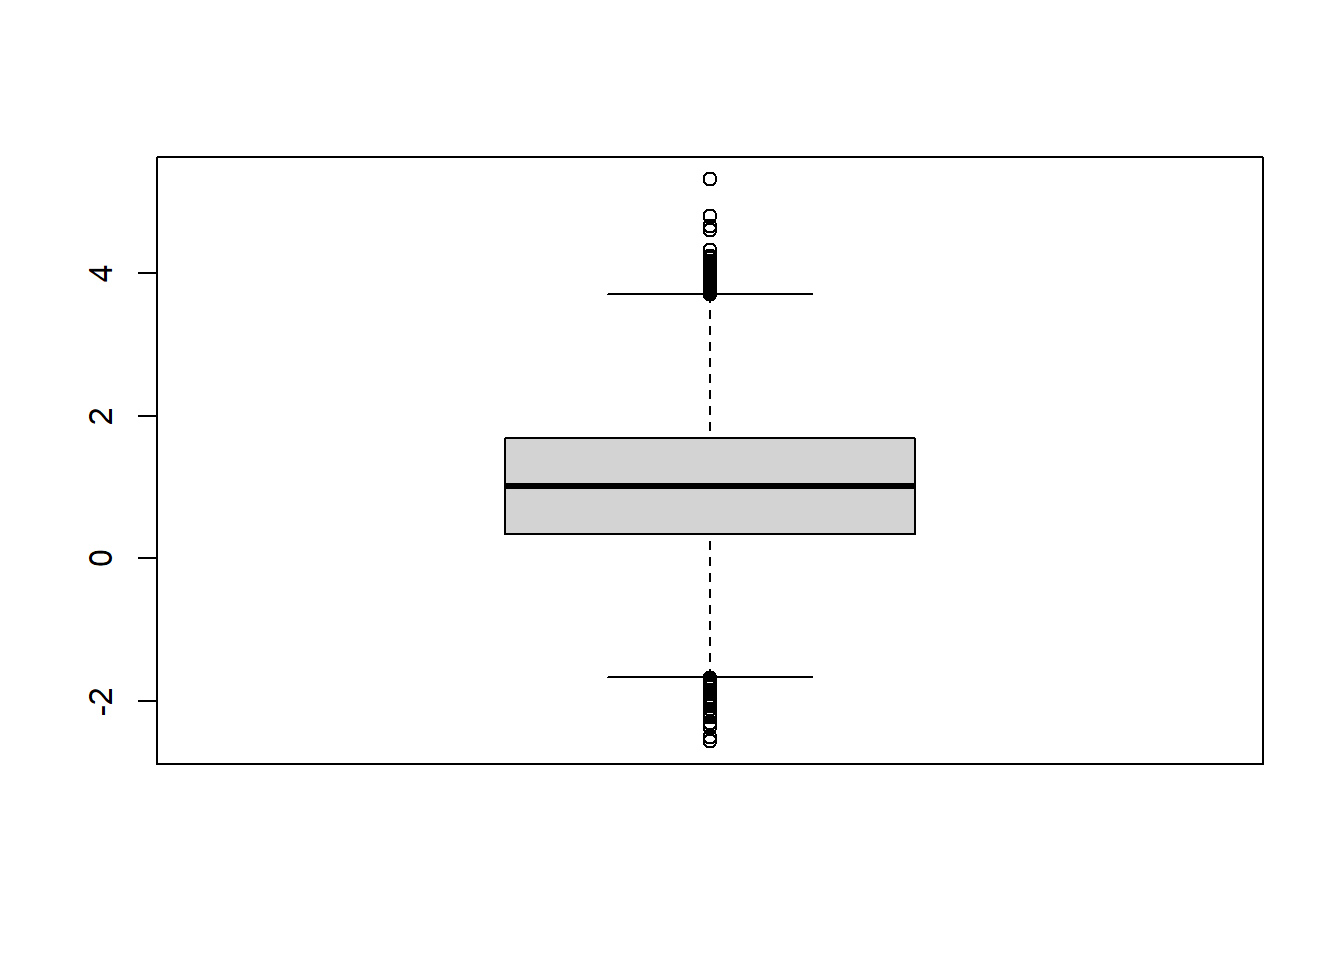
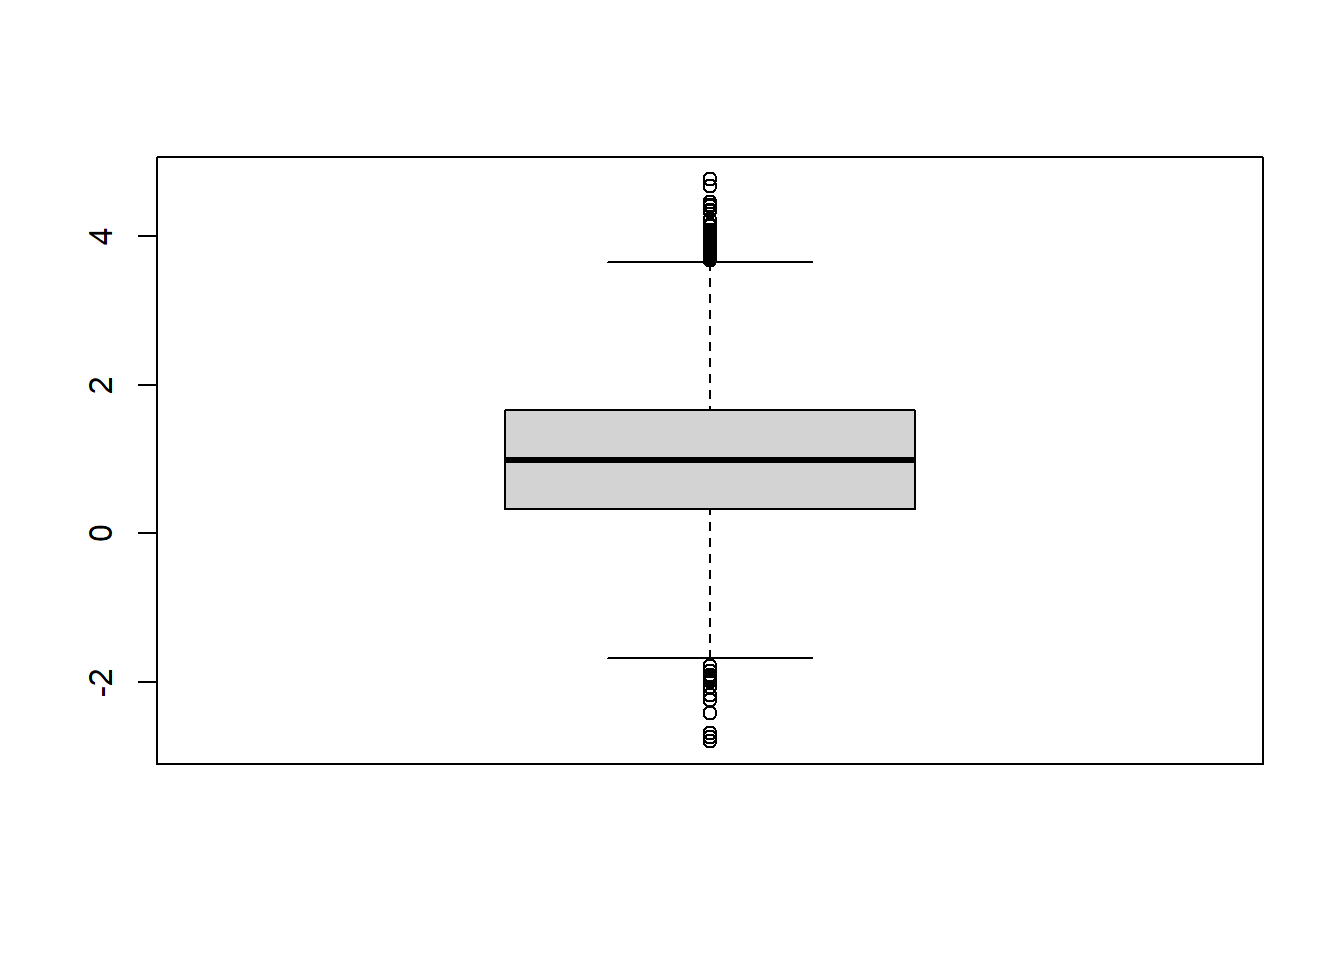
commit post comandos basicos float toc

diff --git a/content/post/2021-02-17-comandos-basicos-r/index.html b/content/post/2021-02-17-comandos-basicos-r/index.html
@@ -1,16 +1,26 @@
 ---
-title: Introdução ao R e comandos básicos
+
+title: comandos basicos r
 author: Lucas S.B. Jordão
 date: '2021-02-17'
-slug: comando-basicos-r
+slug: []
 output: 
     blogdown::html_page:
       toc: true
+      toc_float: true
 categories: []
 tags: []
+subtitle: ''
+summary: ''
+authors: []
+lastmod: '2021-02-17T12:04:30-03:00'
+featured: no
 image:
   caption: ''
   focal_point: ''
+  preview_only: no
+projects: []
+
 ---
 
 <script src="index_files/header-attrs-2.6/header-attrs.js"></script>
@@ -257,7 +267,7 @@ Auckland, ajudaram Ross Ihaka a desenvolver a versão para Macintosh.</p>
 ## when using it for data analysis. See also &#39;citation(&quot;pkgname&quot;)&#39; for
 ## citing R packages.</code></pre>
 <pre class="r"><code>Sys.time()                  # obtém data e hora exata do sistema</code></pre>
-<pre><code>## [1] &quot;2021-02-17 12:10:16 -03&quot;</code></pre>
+<pre><code>## [1] &quot;2021-02-17 12:17:48 -03&quot;</code></pre>
 </div>
 <div id="operadores-simples-e-funções-matemáticas" class="section level2">
 <h2>Operadores simples e funções matemáticas</h2>
@@ -617,7 +627,7 @@ x &lt;- 1
 if(x == 1) {
   Sys.time()
 }               #mostra a data e hora exata do sistema, já que &#39;x&#39; é 1.</code></pre>
-<pre><code>## [1] &quot;2021-02-17 12:10:18 -03&quot;</code></pre>
+<pre><code>## [1] &quot;2021-02-17 12:17:51 -03&quot;</code></pre>
 <pre class="r"><code>if(x &lt; 0) {
   sinal &lt;- &quot;negativo&quot;
 } else if(x == 0) {
@@ -667,43 +677,43 @@ soma</code></pre>
 <div id="gerando-números-aleatórios-e-amostragem" class="section level1">
 <h1>Gerando números aleatórios e amostragem</h1>
 <pre class="r"><code>runif(100)        # Gera números aleatórios entre 0 e 1 com distribuição uniforme</code></pre>
-<pre><code>##   [1] 0.63600378 0.38215124 0.12818284 0.25177949 0.93724778 0.94716366
-##   [7] 0.79751432 0.79935023 0.95190966 0.08677215 0.12372615 0.59477042
-##  [13] 0.52206621 0.39373517 0.33022238 0.92071094 0.05221822 0.31958587
-##  [19] 0.46067311 0.92708054 0.42365516 0.79093559 0.89020530 0.90516140
-##  [25] 0.22376951 0.15727100 0.89925091 0.83828237 0.28057454 0.67376961
-##  [31] 0.39973496 0.47793566 0.69967833 0.97239110 0.26605240 0.02434542
-##  [37] 0.62310146 0.13274853 0.35281232 0.21263423 0.58901648 0.76795097
-##  [43] 0.79725882 0.08448119 0.51925088 0.97845564 0.91646530 0.95729448
-##  [49] 0.45390163 0.76056649 0.08849256 0.59300818 0.42191673 0.75968233
-##  [55] 0.91551319 0.14203244 0.68619694 0.57318367 0.75741115 0.96459629
-##  [61] 0.03906830 0.57425500 0.51720974 0.13646833 0.41056263 0.96534646
-##  [67] 0.69134154 0.62573447 0.75252701 0.27377807 0.36420877 0.48085268
-##  [73] 0.79980838 0.11030883 0.36988389 0.82989662 0.80939115 0.17754567
-##  [79] 0.17936197 0.96459833 0.51762335 0.81032583 0.40022239 0.14375010
-##  [85] 0.04085913 0.22217609 0.26139900 0.46606899 0.89581386 0.81490379
-##  [91] 0.62644862 0.99223161 0.37653322 0.32936886 0.99887032 0.43422853
-##  [97] 0.01373888 0.83808699 0.23285106 0.79630216</code></pre>
+<pre><code>##   [1] 0.114464485 0.166222491 0.771593774 0.628486642 0.479739084 0.270543199
+##   [7] 0.448618812 0.617354669 0.097875605 0.222448662 0.903815951 0.241593179
+##  [13] 0.889870373 0.342623003 0.913647290 0.936573706 0.244559849 0.298623869
+##  [19] 0.669182980 0.663050062 0.222848886 0.619110996 0.798852796 0.487607297
+##  [25] 0.504973599 0.925194189 0.716578204 0.429717623 0.041916208 0.668249903
+##  [31] 0.568422795 0.334327069 0.089024592 0.145022920 0.614483509 0.247657777
+##  [37] 0.149617380 0.536688832 0.759298411 0.824020133 0.745723577 0.958084317
+##  [43] 0.067841821 0.229413060 0.728512020 0.666260464 0.793147391 0.801391457
+##  [49] 0.635659198 0.179219048 0.462731744 0.222792022 0.981748041 0.231298779
+##  [55] 0.518118776 0.529681637 0.479644591 0.113497861 0.176785233 0.923813025
+##  [61] 0.997537772 0.589862617 0.976330073 0.412956189 0.457585604 0.369394554
+##  [67] 0.850987823 0.248061676 0.973260290 0.226810621 0.183541670 0.898201088
+##  [73] 0.398708449 0.767085112 0.068208886 0.719572541 0.457105897 0.490190575
+##  [79] 0.487211454 0.729682267 0.174745420 0.710514796 0.007934506 0.147881167
+##  [85] 0.341647204 0.791521761 0.775876838 0.873941781 0.634317273 0.738925519
+##  [91] 0.609702585 0.314543938 0.144184087 0.221020488 0.519431980 0.170810690
+##  [97] 0.292158233 0.739959084 0.352044002 0.618211520</code></pre>
 <pre class="r"><code>rnorm(100)        # Gera números aleatórios com distribuição normal</code></pre>
-<pre><code>##   [1]  0.10727008 -0.73383830  0.63130276 -1.00628890 -0.21510115  0.83806231
-##   [7] -0.03498662  0.70390407 -1.22448850 -0.47355666  1.22957441  0.39611934
-##  [13]  0.13820416  2.00535278  0.12992230 -0.03718496 -0.08888715 -0.58133556
-##  [19] -0.13223287  0.53837961  0.98382188  0.64162604 -1.19319330 -0.79435506
-##  [25] -1.46581723 -0.89099286  0.92299145  2.00925693  0.25347029 -0.99287224
-##  [31] -0.11698338 -0.78202401  0.61087351  0.45125748  0.21637367  0.18563617
-##  [37]  0.97398692  0.31192388 -2.38181218 -1.67227401  0.47228985  0.02980067
-##  [43] -0.14873022 -0.09171678 -0.74093456 -1.37959239 -0.43116435 -1.12020578
-##  [49] -0.32266352 -0.84340920 -0.06107195  0.44915447  0.35342277  0.46014164
-##  [55]  0.32048970 -0.45161655  0.56672413 -0.76560765 -0.88426447 -0.76418142
-##  [61] -0.91491182 -0.47297971 -1.33323275  0.35126298 -0.34067879 -1.89031666
-##  [67] -1.44963840  0.18018438  0.97983874 -0.13987360 -1.85464608 -0.62443657
-##  [73]  0.53882225  1.06901765 -1.05532279 -1.66234608 -0.83664650 -0.49754378
-##  [79]  0.59585649 -2.01923258 -0.89090397 -0.28251439  1.21528473 -2.52076814
-##  [85]  1.41318840 -0.68469924  0.99334435  1.27568950  0.67636372 -0.72886319
-##  [91] -0.68771136 -1.65320055  0.57681488 -1.63153285 -0.06525312 -0.75341331
-##  [97] -0.62596847  0.03798323 -0.77646646  0.02454751</code></pre>
+<pre><code>##   [1] -1.80357203 -2.33009286 -0.05762600  0.19673785 -0.22083403  0.59887689
+##   [7]  2.04068217 -0.47791964  0.60204347  0.70347266  1.42657991 -1.84594102
+##  [13]  0.41725901  0.53834910 -0.69952778 -0.22240302 -0.53091758 -0.29499522
+##  [19] -0.34250928  1.00710550 -0.22968702 -0.54807416 -0.41673103 -0.32931159
+##  [25] -1.23032564  2.26651358  0.10362711 -1.28385541 -0.61058636 -0.67674391
+##  [31] -2.34353165 -0.74561372  0.55363247  1.65193819  1.00932895 -1.83499486
+##  [37] -1.24522592  1.31307858  0.65798736 -0.69802612  0.86937810  1.06672088
+##  [43] -0.28557044  2.01600212 -1.83486482  0.07687841  1.03143884  1.24215647
+##  [49] -0.74683627  0.40441985 -0.54022624 -1.48062062  1.64203645  0.74175418
+##  [55]  0.11231626 -0.66911956 -1.39482923 -1.53006523  1.48467374  0.39644907
+##  [61] -1.22073746  1.75888920 -0.68824215 -0.49664044 -0.55675112  0.04692730
+##  [67]  0.41100465  0.73611770  1.82780496  1.26384636  0.47314725  0.49235770
+##  [73] -1.60414915  1.57973255  0.65030432  0.51099316 -1.32428540 -2.35469835
+##  [79]  0.01954988 -0.19812952  0.69342851  0.59812699 -0.99460642 -0.29683200
+##  [85]  0.80004953  0.61923135  0.88268911 -0.69009439 -1.34534056 -1.09443977
+##  [91]  0.69127601  2.63138269  1.40313133  0.71998391 -0.25265943 -0.11394714
+##  [97] -0.78587686  0.65186204 -0.61225722  0.16451063</code></pre>
 <pre class="r"><code>sample(1:100, 4)  # Amostragem</code></pre>
-<pre><code>## [1] 29 28 25 54</code></pre>
+<pre><code>## [1] 33 10 19 21</code></pre>
 </div>
 <div id="gráficos-de-análise-descritiva" class="section level1">
 <h1>Gráficos de Análise Descritiva</h1>
